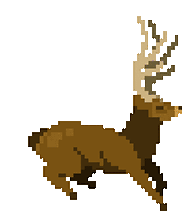
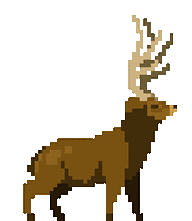
Created Deer Actor in Sarah File

Changed region(s): [[0.0938, 0.0548, 0.9375, 1.0]]

diff --git a/SarahProject/Deer.java b/SarahProject/Deer.java
@@ -1,0 +1,43 @@
+import greenfoot.*;  // (World, Actor, GreenfootImage, Greenfoot and MouseInfo)
+
+/**
+ * Write a description of class Deer here.
+ * 
+ * @author (your name) 
+ * @version (a version number or a date)
+ */
+public class Deer extends Actor
+{
+    int currentImage = 1; 
+    int counter = 0; 
+    /**
+     * Act - do whatever the Deer wants to do. This method is called whenever
+     * the 'Act' or 'Run' button gets pressed in the environment.
+     */
+    public void act() 
+    {
+        // Add your action code here.
+        walk(); 
+    }   
+    public void walk () { //move deer across the screen 
+        int x = getX(); 
+        int y = getY(); 
+        x+=5; //add level multiplier 
+        counter++; 
+        if (counter == 5) { 
+            setImage(); 
+            counter = 0; 
+        }
+        setLocation(x, y); 
+    }
+    public int giveScore () { //score per deer is 10
+        return 10; 
+    } 
+    public void setImage() { //change image to create moving gif
+        currentImage++; //increment image
+        if (currentImage == 12) { //loop through graphics 
+            currentImage = 1; 
+        } 
+        setImage("Antler" + currentImage + ".fw.png"); //call antler file
+    } 
+}

diff --git a/SarahProject/PlayScreen.java b/SarahProject/PlayScreen.java
@@ -17,5 +17,6 @@ public class PlayScreen extends World
     {    
         // Create a new world with 600x400 cells with a cell size of 1x1 pixels.
         super(1280, 769, 1); 
+        addObject(new Deer(), 10, 475); 
     }
 }
